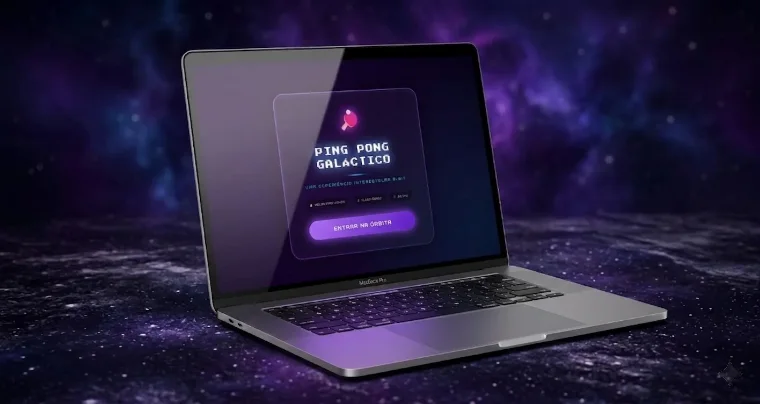
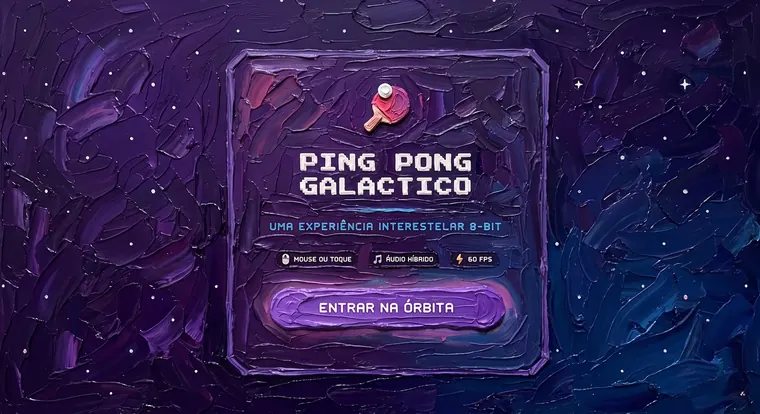
Projetos: nova capa do Ping Pong, pintada em vez do mockup
A tela inicial do jogo agora é a própria pintura, no mesmo óleo do
ateliê que serve de fundo à seção — antes era um render de notebook
flutuando no espaço, vocabulário de template que a página já tinha
abandonado no resto. Dentro da moldura com passe-partout ela lê como
quadro na parede, que é o que a cena de Projetos encena.

Variantes geradas da fonte 2758x1504 sem corte: 1440x785 (130 KB) e
760x414 (50 KB), qualidade 78 — textura de tinta é cara em webp, e no
orçamento da casa as pinturas já correm entre 200 e 240 KB.

width/height acompanham a nova proporção (1,834), senão a reserva de
caixa que existe justamente para não haver salto passaria a mentir.

diff --git a/index.html b/index.html
@@ -227,7 +227,7 @@
             <div class="proj-media">
               <div class="proj-backglow" aria-hidden="true"></div>
               <a class="proj-shot" href="https://otavio-2507.github.io/Jogo-de-Ping-Pong/" target="_blank" rel="noopener">
-                <span class="proj-shot-img"><img srcset="assets/img/ping-pong-760.webp 760w, assets/img/ping-pong.webp 1440w" sizes="(max-width: 900px) 92vw, 46vw" src="assets/img/ping-pong.webp" alt="Jogo de Ping Pong no navegador" width="1416" height="752" loading="lazy" decoding="async" data-zoom></span>
+                <span class="proj-shot-img"><img srcset="assets/img/ping-pong-760.webp 760w, assets/img/ping-pong.webp 1440w" sizes="(max-width: 900px) 92vw, 46vw" src="assets/img/ping-pong.webp" alt="Tela inicial do Ping Pong Galáctico: título em 8-bit e o botão Entrar na órbita" width="1440" height="785" loading="lazy" decoding="async" data-zoom></span>
               </a>
             </div>
             <div class="proj-info">
